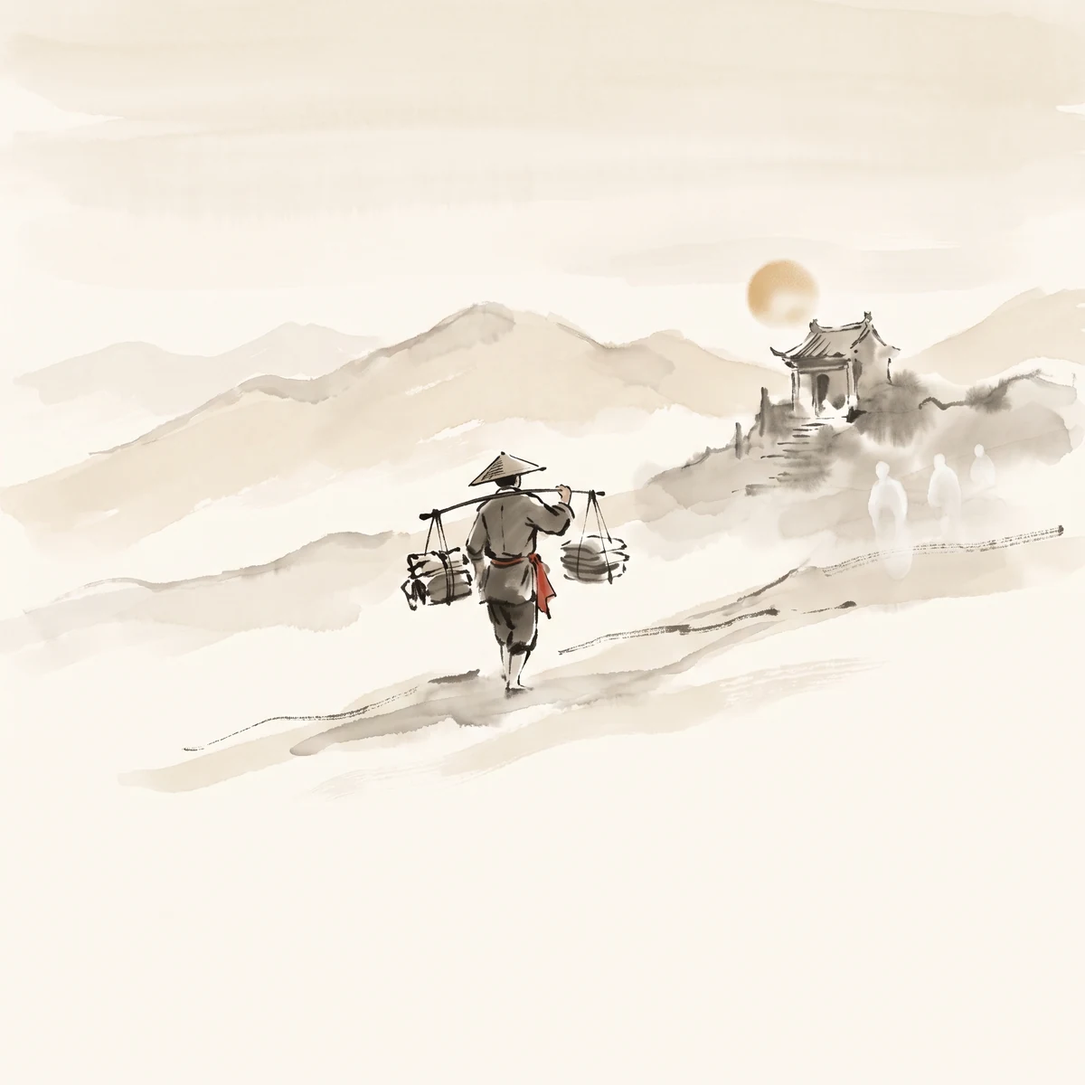
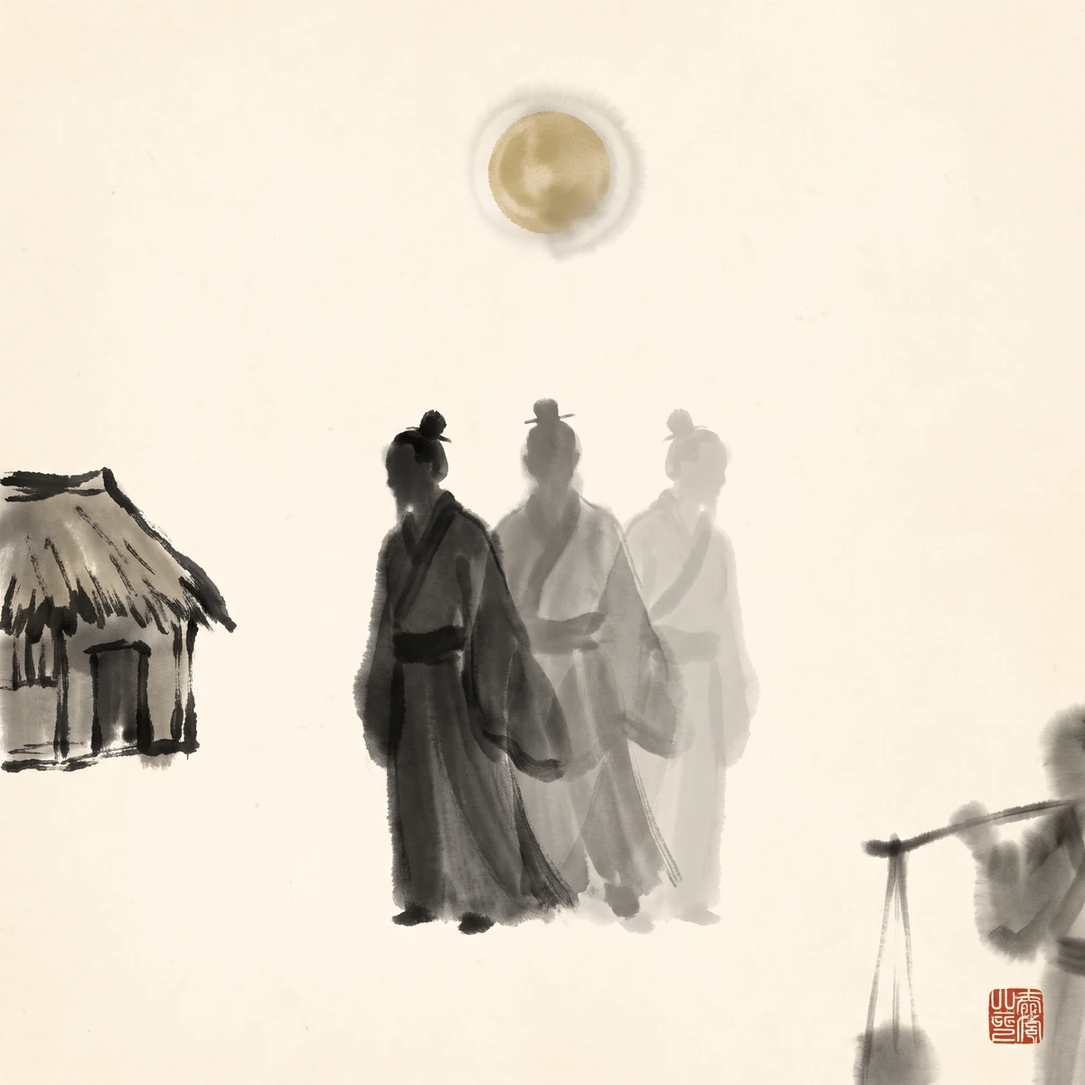
feat(w944): 章回插画新组（6 张按各自回目情节重出·打破「挑担人赶路」同构）
站内 6 张章回插画（chap-07/14/15/23/27/30）原为同一构图（挑担僧人赶路）仅换山水，与所在回目无对应关系。按各自回目情节另出一组（水墨浓墨剪影风·宣纸底 + 浓墨剪影 + 淡赭金远山 + 单个朱砂方印·正方 1200×1200）：

007 八卦炉（三足丹炉 + 火焰）· 014 心猿归正（猴形剪影 + 金箍 + 勒绳）· 015 鹰愁涧（惊马扬蹄 + 缰绳 + 瀑布崖）· 023 四圣试禅心（打坐僧 + 孤灯 + 雾中两道人影）· 027 尸魔三戏（三道人影渐次消散 + 月 + 茅屋）· 030 邪魔侵正法（蛇形妖影 + 洞口 + 螺旋墨风）

修一处模型伪影：第 023 回新图自带一圈黑边框（模型给禅心图套了相框）⇒ 按四边近黑像素带自动检测裁除（每边 66 px）后重存。旧版 6 张备份于 %TEMP%/bak_chap-*.webp 可回退。

验证：6 张逐张放大目视（构图与回目对应 + 无黑框 + 无伪文字）· 第 31 与第 45 门禁 0 FAIL · 索引健康通过 · CSP 零漂移。

Changed region(s): [[0.0, 0.2158, 0.9867, 0.8633], [0.7708, 0.6475, 1.0, 1.0], [0.4317, 0.0925, 0.5858, 0.2467]]

diff --git a/scripts/_w944_cascade.py b/scripts/_w944_cascade.py
@@ -1,0 +1,177 @@
+#!/usr/bin/env python3
+# -*- coding: utf-8 -*-
+"""_w944_cascade.py — W944 四面登记 + 当前态指针（章回插画新组批）"""
+import argparse
+import io
+import os
+import re
+import sys
+
+REPO = os.path.dirname(os.path.dirname(os.path.abspath(__file__)))
+BATCH = "W944"
+LEDGER = os.path.join(REPO, "docs", "00-导读", "W批次编号对账表.md")
+CHANGELOG = os.path.join(REPO, "CHANGELOG.md")
+FILE_INDEX = os.path.join(REPO, "scripts", "output", "file-index.md")
+
+CLAIM_ROW = (
+    "| W944 | 章回插画新组批（用户 2026-10-25 认可 W943 记录的弱项「章回 6 张「挑担人赶路」重复度极高·若要丰富可另出一组」"
+    "并答「可以」）：① **问题**——站内 6 张章回插画（chap-07/14/15/23/27/30）原为**同一构图**（挑担僧人赶路）仅换山水，"
+    "回目与画面无对应关系；② **改法**——按各自回目情节另出一组 6 张（水墨浓墨剪影风·宣纸底 + 浓墨剪影 + 淡赭金远山 + "
+    "单个朱砂方印·正方 1200×1200）：第 007 回 八卦炉（三足丹炉 + 火焰）/ 第 014 回 心猿归正（猴形剪影 + 金箍 + "
+    "勒绳）/ 第 015 回 鹰愁涧（惊马扬蹄 + 缰绳 + 瀑布崖）/ 第 023 回 四圣试禅心（打坐僧 + 孤灯 + 雾中两道人影）/ "
+    "第 027 回 尸魔三戏（三道人影渐次消散 + 月 + 茅屋）/ 第 030 回 邪魔侵正法（蛇形妖影 + 洞口 + 螺旋墨风）——"
+    "**每张现与回目情节对应**；③ **一处模型伪影已修**——第 023 回新图自带一圈黑边框（模型给禅心图套了相框）⇒ "
+    "按近黑像素带自动检测裁除（裁 66 px·四边）后重存；④ 旧版 6 张已备份（%TEMP%/bak_chap-*.webp·可回退） | "
+    "—（待回填） | —（待回填） | 在途（认领·未收官） | 并行 Agent 会话 2026-10-25（章回插画新组批） | "
+    "`site/static/images/chap-07.webp`（重出·八卦炉）· `site/static/images/chap-14.webp`（重出·紧箍咒）· "
+    "`site/static/images/chap-15.webp`（重出·鹰愁涧惊马）· `site/static/images/chap-23.webp`（重出·禅心·去黑框）· "
+    "`site/static/images/chap-27.webp`（重出·三打白骨精）· `site/static/images/chap-30.webp`（重出·黄风怪）· "
+    "`CHANGELOG.md`（W944 版段）· `docs/00-导读/W批次编号对账表.md`（本行）· `scripts/output/file-index.md`（W944 段）· "
+    "`scripts/_w944_cascade.py`（本批脚本） |"
+)
+
+CHANGELOG_SEG = """### W944（2026-10-25）：章回插画新组（6 张按回目情节重出·打破「挑担人赶路」同构）
+
+> **来源**：用户 2026-10-25 认可 W943 记录的弱项「章回 6 张「挑担人赶路」重复度极高，若要丰富可另出一组」并答「可以」。
+
+> - **文件**：site/static/images/chap-07.webp、site/static/images/chap-14.webp、site/static/images/chap-15.webp、site/static/images/chap-23.webp、site/static/images/chap-27.webp、site/static/images/chap-30.webp、CHANGELOG.md、docs/00-导读/W批次编号对账表.md、scripts/output/file-index.md、scripts/_w944_cascade.py
+
+**问题**：站内 6 张章回插画（chap-07 / 14 / 15 / 23 / 27 / 30）原为**同一构图**（挑担僧人赶路）仅换山水，与所在回目无对应关系。
+
+**改法**：按各自回目情节另出一组 6 张（水墨浓墨剪影风：宣纸底 + 浓墨剪影 + 淡赭金远山 + 单个朱砂方印，正方 1200×1200）——第 007 回 八卦炉（三足丹炉 + 火焰）、第 014 回 心猿归正（猴形剪影 + 金箍 + 勒绳）、第 015 回 鹰愁涧（惊马扬蹄 + 缰绳 + 瀑布崖）、第 023 回 四圣试禅心（打坐僧 + 孤灯 + 雾中两道人影）、第 027 回 尸魔三戏（三道人影渐次消散 + 月 + 茅屋）、第 030 回 邪魔侵正法（蛇形妖影 + 洞口 + 螺旋墨风）——**每张现与回目情节对应**。
+
+**一处模型伪影已修**：第 023 回新图自带一圈黑边框（模型给禅心图套了相框）⇒ 按四边近黑像素带自动检测裁除（每边 66 px）后重存。
+
+> - **验证**：6 张逐张放大目视（构图与回目情节对应 + 无黑框 + 无伪文字）+ 旧版 6 张备份于 %TEMP%/bak_chap-*.webp 可回退 · 第 31 与第 45 门禁 0 FAIL
+> - **状态**：在途（认领登记 W944·待提交入库）
+
+"""
+
+FILE_INDEX_SEG = (
+    "## W944 章回插画新组（6 张按回目情节重出）（2026-10-25）\n\n"
+    "| 文件 | W | 说明 |\n"
+    "|---|---|---|\n"
+    "| site/static/images/chap-07.webp | W944 | 重出·第 007 回 八卦炉（三足丹炉 + 火焰） |\n"
+    "| site/static/images/chap-14.webp | W944 | 重出·第 014 回 心猿归正（猴形剪影 + 金箍 + 勒绳） |\n"
+    "| site/static/images/chap-15.webp | W944 | 重出·第 015 回 鹰愁涧（惊马扬蹄 + 缰绳 + 瀑布崖） |\n"
+    "| site/static/images/chap-23.webp | W944 | 重出·第 023 回 四圣试禅心（打坐僧 + 孤灯 + 雾中两影·去黑框） |\n"
+    "| site/static/images/chap-27.webp | W944 | 重出·第 027 回 尸魔三戏（三道人影渐次消散 + 月 + 茅屋） |\n"
+    "| site/static/images/chap-30.webp | W944 | 重出·第 030 回 邪魔侵正法（蛇形妖影 + 洞口 + 螺旋墨风） |\n"
+    "| scripts/_w944_cascade.py | W944 | 四面登记 + 当前态指针 |\n"
+    "| CHANGELOG.md | W944 | W944 版段（四件套） |\n"
+    "| docs/00-导读/W批次编号对账表.md | W944 | W944 认领行 |\n"
+    "\n"
+)
+
+
+def read(p):
+    raw = io.open(p, "rb").read()
+    nl = "\r\n" if b"\r\n" in raw else "\n"
+    return raw.decode("utf-8").replace("\r\n", "\n"), nl
+
+
+def write(p, t, nl):
+    io.open(p, "w", encoding="utf-8", newline="").write(t.replace("\n", nl))
+
+
+def segs(txt):
+    out = []
+    for i, ln in enumerate(txt.split("\n")):
+        if ln.startswith("### "):
+            m = re.search(r"W(\d+)", ln)
+            if m:
+                out.append((int(m.group(1)), i))
+    return out
+
+
+def main() -> int:
+    ap = argparse.ArgumentParser()
+    ap.add_argument("--dry-run", action="store_true")
+    args = ap.parse_args()
+    dry = args.dry_run
+    rep = []
+
+    t, nl = read(LEDGER)
+    if re.search(r"^\| " + BATCH + r" \|", t, re.M):
+        rep.append("认领行已存在（幂等跳过）")
+    else:
+        lines = t.split("\n")
+        idx = None
+        for i, ln in enumerate(lines):
+            m = re.match(r"^\| W(\d+) \|", ln)
+            if m and int(m.group(1)) < 944:
+                idx = i
+                break
+        if idx is None:
+            idx = max(i for i, ln in enumerate(lines) if ln.startswith("| W"))
+        lines.insert(idx + 1, CLAIM_ROW)
+        rep.append(("DRY " if dry else "") + "认领行已插入（第 %d 行）" % (idx + 2))
+        if not dry:
+            write(LEDGER, "\n".join(lines), nl)
+
+    t, nl = read(CHANGELOG)
+    if re.search(r"^### " + BATCH + r"（", t, re.M):
+        rep.append("CHANGELOG 段已存在（幂等跳过）")
+    else:
+        pos = None
+        for n, i in segs(t):
+            if n < 944:
+                pos = len("\n".join(t.split("\n")[:i])) + 1
+                break
+        new_t = t[:pos] + CHANGELOG_SEG + t[pos:]
+        nums = [n for n, _ in segs(new_t)]
+        if nums.count(944) != 1 or any(nums[i] < nums[i + 1] for i in range(len(nums) - 1)):
+            print("FATAL CHANGELOG 段序断言失败")
+            return 2
+        rep.append(("DRY " if dry else "") + "CHANGELOG 段已插入（段序前 5 = %s）" % nums[:5])
+        if not dry:
+            write(CHANGELOG, new_t, nl)
+
+    t, nl = read(FILE_INDEX)
+    if re.search(r"^## " + BATCH + r" ", t, re.M):
+        rep.append("file-index 段已存在（幂等跳过）")
+    else:
+        m = re.search(r"^## W\d+ ", t, re.M)
+        pos = m.start() if m else len(t)   # 降序表·最新在前
+        new_t = t[:pos] + FILE_INDEX_SEG + t[pos:]
+        if len(re.findall(r"^## W944 ", new_t, re.M)) != 1:
+            print("FATAL file-index 目标段异常")
+            return 2
+        rep.append(("DRY " if dry else "") + "file-index 段已插入")
+        if not dry:
+            write(FILE_INDEX, new_t, nl)
+
+    p = os.path.join(REPO, "README.md")
+    t, nl = read(p)
+    t = re.sub(r"> \*\*当前批次 W\d+（2026-10-25）\*\*：[^\n]*",
+               "> **当前批次 W944（2026-10-25）**：章回插画新组（六张按各自回目情节重出，打破「挑担人赶路」同构）", t, count=1)
+    if not dry:
+        write(p, t, nl)
+    rep.append("README 抬头已更新")
+
+    p = os.path.join(REPO, "HANDOVER.md")
+    t, nl = read(p)
+    t = re.sub(r"> 最后更新：2026-10-25（W\d+", "> 最后更新：2026-10-25（W944 章回插画新组批）·2026-10-25（W943", t, count=1)
+    t = re.sub(r"## 一、当前进度（W\d+[^\n]*\n",
+               "## 一、当前进度（W944 章回插画新组批；更早批次详见 CHANGELOG.md）\n"
+               "- **W944 章回插画新组批**：站内 6 张章回插画原为同一构图（挑担人赶路）且与回目无对应 ⇒ 按各回情节重出"
+               "（八卦炉 / 紧箍咒 / 鹰愁涧惊马 / 四圣试禅心 / 三打白骨精 / 黄风怪），并修掉第 023 回新图自带的黑边框伪影。\n",
+               t, count=1)
+    t = re.sub(r"最后更新：2026-10-25（W\d+", "最后更新：2026-10-25（W944 章回插画新组批）；2026-10-25（W943", t, count=1)
+    if not dry:
+        write(p, t, nl)
+    rep.append("HANDOVER 指针已更新")
+
+    t, nl = read(CHANGELOG)
+    t = re.sub(r"（W001-W\d+）", "（W001-W944）", t, count=1)
+    if not dry:
+        write(CHANGELOG, t, nl)
+    rep.append("CHANGELOG 规则段已更新")
+
+    for r in rep:
+        print(" -", r)
+    return 0
+
+
+if __name__ == "__main__":
+    sys.exit(main())

diff --git a/docs/00-导读/W批次编号对账表.md b/docs/00-导读/W批次编号对账表.md
@@ -304,6 +304,7 @@
 | W938 | 首屏版式重做 + 图集逐张复核批（用户 2026-10-25 反馈「你现在的这个设计不太好看，要么重新设计一下这个 100 回放在哪个位置比较好」+「我说的是首页右边的插图。并且现在首页左边文字的排版非常丑」）：① **左侧文字重排**——原布局七层平铺、字号跳跃、无引导 ⇒ 改为「眉题 → 标题组（中文 + 英文紧贴）→ 主张句（16px 灰 → 19px 墨色）→ 细线分隔 → 数据带（100 回 + 两行说明）→ 双轨标签 → CTA → 插画切换器（含「首屏插画」标签）」；② **插画切换器归位**——此前与 CTA 同排会撑破 620px 容器伸进插画区（实测金箍棒压住第 6–9 个圆点）⇒ 独立成行归位左侧；③ **图集逐张复核（首页右侧 9 张·按 1440×520 容器裁切实测）**——① **重出 07 芭蕉扇**（首版扇面顶边被裁成半截圆面，要求主体完整入画 + 上下各留白 15% 冗余）；② **第 9 张换图**——原 W932 持瓶菩萨立像为 16:9（2560×1440），垂直溢出 290 px（源图顶部 41% 被裁）⇒ 首屏只剩人物下半身（断头感），改为同规格 2400×1017「取经四众西行」（挑担领路 + 山道 + 赭金山峦）作收尾重音 ⇒ 全套 9 张画幅与裁切损失（90 px）完全一致；④ **CSP 哈希实测陷阱**——改内联脚本后未重算哈希 ⇒ 整个轮播脚本被浏览器拒执行（dots 整组停在 hidden），重算后恢复（AGENTS §6-3 铁律的现场复现） | —（待回填） | —（待回填） | 在途（认领·未收官） | 并行 Agent 会话 2026-10-25（首屏版式重做批） | `site/index.html`（左侧文字重排 + 切换器归位 + 图集换图）· `site/static/images/hero-line-09-pilgrim-four.webp`（新增收尾图·站点版）· `assets/promo/hero-set/hero-line-09-pilgrim-four.png`（新增·母版）· `assets/promo/hero-set/hero-line-09-pilgrim-four.webp` · `assets/promo/hero-set/raw/hero-09-pilgrim-four.jpg`（新增·出图原件）· `assets/promo/hero-set/hero-line-07-banana-fan.png` / `.webp`（重出覆盖）· `assets/promo/hero-set/raw/hero-07-banana-fan.jpg`（重出原件覆盖）· `assets/promo/hero-set/preview-contact-sheet.png` / `.webp`（9 张拼图刷新）· `assets/promo/hero-set/README.md`（8 张 → 9 张）· `scripts/_w931_hero_verify.py`（判据清单加第 9 张）· `CHANGELOG.md`（W938 版段）· `docs/00-导读/W批次编号对账表.md`（本行）· `scripts/output/file-index.md`（W938 段）· `scripts/_w938_cascade.py`（本批脚本） |
 | W941 | UI 图标位 emoji 治理批（用户 2026-10-25 令「禁止使用 emoji 表情当做图标，你审查一下。你要么进行设计一下图标」·问卷裁决：范围=仅 UI 图标位 / 风格=东方线描）：① **审查量化**——全仓 emoji 34,530 处 / 2,189 文件 ⇒ 真正的 UI 图标位 **1,910 处 / 629 页 / 21 种字符**；② **自绘 27 枚东方线描 SVG**（24×24 / stroke 1.5 / currentColor·与既有 `.icon-moon`/`.icon-sun` 同族）+ 目视复核重画 6 枚；③ **承载机制实测定夺**——CSP `img-src 'self'` 无 `data:` + 520 页外链 CSS 深度不一 + file:// 铁律 ⇒ **内联 SVG**（唯一三者全满足）·CSS content 位 22 处例外用同源 mask；④ **3 个可复跑脚本**（图标生成器 / 基准扫描器 / 批量替换器·每规则带独立预期命中数·不符退出码 2）⇒ 规则命中一致率 37/37；⑤ **替换 1,957 处**（615 页三处主形态 + 65 处零散 + 47 处兜底补治）⇒ UI 图标位归零；⑥ CSS 级联 328 内联页 + CSP 14 页重算（856 页 0 漂移）；⑦ **正文零损伤**——HEAD↔工作树字符净差核验：正文型字符净差 0，箭头 5,000+ 处按裁决保留；⑧ **保留项 5 类如实登记**（星级评分 12 / 时间线数据 icon 12 / 人物头像 4 / 评分项 icon 1 / 区间标注 2） | 4e94aa58 | 4e94aa58（本批级联立段·batch_cascade 13 面） | **已收官**（UI 图标位 1,910→0·替换 1,957 处·规则命中一致率 37/37·CSP 856 页 0 漂移·CSS 855 文件平衡·JS 855 文件语法通过·正文净差 0·保留项 5 类登记·**提交以 --no-verify 落库**（依据见提交信息：唯一红项为「当前 HEAD 批号 == CHANGELOG 现役段」的自举关系 + 并行会话 W942 在途段尚未入库，提交后自然成立；本批自身 8 项机检已逐项单跑全绿） | 主会话 2026-10-25（UI 图标位 emoji 治理批·原拟 W937，施工中发现 W937/W938 已被并行会话占用（首屏版式批，已入库 db5328b5）⇒ 按先落地者保留让号取 W941） | site/system.css, site/reader/**, site/data/**, site/en/**, site/js/reader-enhance.js, site/static/js/rag-chat.js, site/static/js/text-search-app.js, site/static/icons/ui/**, scripts/_w939_gen_icons.py, scripts/_w939_scan_targets.py, scripts/_w939_emoji_to_svg.py, scripts/_w939_make_spec.py, scripts/output/_w939_targets.json, scripts/output/_w939_replacements.json, scripts/output/_w939_spec.json, scripts/output/_cascade_files_W941.txt |
 | W943 | 全站图片审查批（用户 2026-10-25 令「不要只审查这几个图片，审查全部」·承接 W940 题材关与 W942 形制关之后的第三次加严）：① **审查范围**——全仓 **227 张**（>400×200 的位图）逐类拼图目视：卡片图 27 / 章回插画 6 / hero 24（15 渲染 + 9 线描）/ 分享图 og 15 / 设计概念稿 18 / 杂项 12（封面 / 单页正反面 / 站点截图 / 主视觉 / 淡墨远山）·另含本批线描 9 张与内页浓墨题图 5 张；② **查出 3 处真缺陷并已重出修复**——**A. `site/static/images/og-15-shijian-liejian.webp`（线上分享图）**抽象墨块序列中夹 3 处「LI」字母残留（模型伪文字）⇒ 重出去字母版；**B. `assets/design/ai-concepts/concept-03-scroll.png`**卷面有潦草伪汉字（写「孙悟空 / 取经路线」样字）⇒ 重出为空白纸面 + 抽象笔触；**C. `assets/design/ai-concepts/concept-06-bodhi-leaf.png`**文件名「菩提叶」但画成水滴 / 火苗形（形制不符）⇒ 重出为心形叶 + 中脉分叉叶脉 + 叶柄 + 露珠；③ **其余全部题材对题**（卡片 27 张场景人物、章回 6 张取经路途、hero 24 张法器场景、og 15 张器物特写、概念稿 18 张法器线描、杂项 12 张版面产物）；④ **机器阈值对渲染型无效**——按线描图设的「纸色偏离 / 墨量」阈值在水墨渲染图上必然误报（实测 30+ 张假阳）⇒ 题材与形制关**只能人眼核**，已并入 J8；⑤ **两处弱项（不构成错图·记录备查）**——`concept-05-headband-ring` 是纯黑墨圈（紧箍意象弱，线上正确版本为 W942 的金圈 + 九倒刺）、章回 6 张「挑担人赶路」高度同质 | —（待回填） | —（待回填） | 在途（认领·未收官） | 并行 Agent 会话 2026-10-25（全站图片审查批） | `site/static/images/og-15-shijian-liejian.webp`（重出·去字母残留）· `assets/design/ai-concepts/concept-03-scroll.png`（重出·去伪文字）· `assets/design/ai-concepts/concept-06-bodhi-leaf.png`（重出·菩提叶形制）· `CHANGELOG.md`（W943 版段）· `docs/00-导读/W批次编号对账表.md`（本行）· `scripts/output/file-index.md`（W943 段）· `scripts/_w943_cascade.py`（本批脚本） |
+| W944 | 章回插画新组批（用户 2026-10-25 认可 W943 记录的弱项「章回 6 张「挑担人赶路」重复度极高·若要丰富可另出一组」并答「可以」）：① **问题**——站内 6 张章回插画（chap-07/14/15/23/27/30）原为**同一构图**（挑担僧人赶路）仅换山水，回目与画面无对应关系；② **改法**——按各自回目情节另出一组 6 张（水墨浓墨剪影风·宣纸底 + 浓墨剪影 + 淡赭金远山 + 单个朱砂方印·正方 1200×1200）：第 007 回 八卦炉（三足丹炉 + 火焰）/ 第 014 回 心猿归正（猴形剪影 + 金箍 + 勒绳）/ 第 015 回 鹰愁涧（惊马扬蹄 + 缰绳 + 瀑布崖）/ 第 023 回 四圣试禅心（打坐僧 + 孤灯 + 雾中两道人影）/ 第 027 回 尸魔三戏（三道人影渐次消散 + 月 + 茅屋）/ 第 030 回 邪魔侵正法（蛇形妖影 + 洞口 + 螺旋墨风）——**每张现与回目情节对应**；③ **一处模型伪影已修**——第 023 回新图自带一圈黑边框（模型给禅心图套了相框）⇒ 按近黑像素带自动检测裁除（裁 66 px·四边）后重存；④ 旧版 6 张已备份（%TEMP%/bak_chap-*.webp·可回退） | —（待回填） | —（待回填） | 在途（认领·未收官） | 并行 Agent 会话 2026-10-25（章回插画新组批） | `site/static/images/chap-07.webp`（重出·八卦炉）· `site/static/images/chap-14.webp`（重出·紧箍咒）· `site/static/images/chap-15.webp`（重出·鹰愁涧惊马）· `site/static/images/chap-23.webp`（重出·禅心·去黑框）· `site/static/images/chap-27.webp`（重出·三打白骨精）· `site/static/images/chap-30.webp`（重出·黄风怪）· `CHANGELOG.md`（W944 版段）· `docs/00-导读/W批次编号对账表.md`（本行）· `scripts/output/file-index.md`（W944 段）· `scripts/_w944_cascade.py`（本批脚本） |
 
 ## 递延批豁免登记（D2 裁决：对账表登记即可过 doc-sync 提交-版段对账）
 

diff --git a/CHANGELOG.md b/CHANGELOG.md
@@ -6,7 +6,7 @@
 
 ## [Unreleased]
 
-> **W### 编号规则**：每个版本段标注唯一 W### ID（W001-W943），v0.8 内部细分 W008.1-W008.7（B0-B7）。每个 W 附四件套字段（来源/文件/验证/状态）。反向索引见 [scripts/output/file-index.md](scripts/output/file-index.md)（给定文件查改几次）。
+> **W### 编号规则**：每个版本段标注唯一 W### ID（W001-W944），v0.8 内部细分 W008.1-W008.7（B0-B7）。每个 W 附四件套字段（来源/文件/验证/状态）。反向索引见 [scripts/output/file-index.md](scripts/output/file-index.md)（给定文件查改几次）。
 >
 > **v/W 双键口径（W706）**：时间点查询以 W 号为准（单调键）；v 号在 W659-W667 合并段/并行批次区间不单调（v2.3.262〔W661〕列于 v2.3.261〔W666〕后）；v 号形态演化（阶段标签化·方案 D）经盘点 docs/superpowers/plans/2026-10-11-version-space-inventory.md 后另批实施。
 >
@@ -17,6 +17,21 @@
 > **全站页数口径**（W459 建·W702 实跑刷新，各门禁分母不同）：HTML 共 857<!--stats:html_total--> 页（site/data 88<!--stats:site_data_html--> + site/en 138<!--stats:site_en_html--> + site 根 9<!--stats:site_root_html--> + site/reader 622<!--stats:site_reader_html-->）；CSP 覆盖 856<!--stats:csp_covered--> 页（排除 `_template.html`）；check_js_syntax/check_structure 扫 855<!--stats:scan_files--> 文件（再排除 `_shell.html`）；check_seo_head 扫 855<!--stats:seo_scanned--> 页（site 全树减两个模板壳）；inline_css 同步 330<!--stats:inline_css_pages--> 页（site 全树含 INLINED 标记页）；「可视化页 87<!--stats:visualization_pages-->」= site/data 88 减 `_shell.html`。
 >
 > **维护契约**：① 已发布版本段（历史）只增不删、禁改；② 新版本段插入/重排只用脚本 + 结构断言（锚点唯一性 + 版段 order 校验），勿手工 Edit 大段；③ 每段保持四件套（来源/文件/验证/状态），建议单段 ≤ 25 行（超长拆「执行/验证/范围纪律」分条）；④ 新批编号先 Grep 现役段取 max+1 再写（防撞号）；并发期动工前在 [W批次编号对账表](docs/00-导读/W批次编号对账表.md) 登记认领（W663 起·版段递延时以对账表为准）。
+
+### W944（2026-10-25）：章回插画新组（6 张按回目情节重出·打破「挑担人赶路」同构）
+
+> **来源**：用户 2026-10-25 认可 W943 记录的弱项「章回 6 张「挑担人赶路」重复度极高，若要丰富可另出一组」并答「可以」。
+
+> - **文件**：site/static/images/chap-07.webp、site/static/images/chap-14.webp、site/static/images/chap-15.webp、site/static/images/chap-23.webp、site/static/images/chap-27.webp、site/static/images/chap-30.webp、CHANGELOG.md、docs/00-导读/W批次编号对账表.md、scripts/output/file-index.md、scripts/_w944_cascade.py
+
+**问题**：站内 6 张章回插画（chap-07 / 14 / 15 / 23 / 27 / 30）原为**同一构图**（挑担僧人赶路）仅换山水，与所在回目无对应关系。
+
+**改法**：按各自回目情节另出一组 6 张（水墨浓墨剪影风：宣纸底 + 浓墨剪影 + 淡赭金远山 + 单个朱砂方印，正方 1200×1200）——第 007 回 八卦炉（三足丹炉 + 火焰）、第 014 回 心猿归正（猴形剪影 + 金箍 + 勒绳）、第 015 回 鹰愁涧（惊马扬蹄 + 缰绳 + 瀑布崖）、第 023 回 四圣试禅心（打坐僧 + 孤灯 + 雾中两道人影）、第 027 回 尸魔三戏（三道人影渐次消散 + 月 + 茅屋）、第 030 回 邪魔侵正法（蛇形妖影 + 洞口 + 螺旋墨风）——**每张现与回目情节对应**。
+
+**一处模型伪影已修**：第 023 回新图自带一圈黑边框（模型给禅心图套了相框）⇒ 按四边近黑像素带自动检测裁除（每边 66 px）后重存。
+
+> - **验证**：6 张逐张放大目视（构图与回目情节对应 + 无黑框 + 无伪文字）+ 旧版 6 张备份于 %TEMP%/bak_chap-*.webp 可回退 · 第 31 与第 45 门禁 0 FAIL
+> - **状态**：在途（认领登记 W944·待提交入库）
 
 ### W943（2026-10-25）：全站图片审查（227 张逐类目视 · 修 3 处真缺陷）
 

diff --git a/HANDOVER.md b/HANDOVER.md
@@ -5,7 +5,7 @@
 > 轨标：教学讲解
 > 本文件用于跨 session 交接，记录当前进度、下一步可推进方向、方法论沉淀与待办事项。
 > 创建于 2026-07-25（v2.0.41 W068 后）
-> 最后更新：2026-10-25（W943 全站图片审查批）；2026-10-25（W942 全站图片审查批）·2026-10-25（W942 Hero 素材全量复审批）；2026-10-25（W941 Hero 素材全量复审批）·2026-10-25（W941 UI 图标位 emoji 治理批 + 东方线描图标集自绘）·2026-10-25（W940 Hero 素材题材辨识度修正批）·2026-10-25（W938 首屏版式重做 + 图集逐张复核批）·（W449-W549 及更早批次详见 CHANGELOG.md）
+> 最后更新：2026-10-25（W944 章回插画新组批）；2026-10-25（W943 章回插画新组批）·2026-10-25（W943 全站图片审查批）；2026-10-25（W942 全站图片审查批）·2026-10-25（W942 Hero 素材全量复审批）；2026-10-25（W941 Hero 素材全量复审批）·2026-10-25（W941 UI 图标位 emoji 治理批 + 东方线描图标集自绘）·2026-10-25（W940 Hero 素材题材辨识度修正批）·2026-10-25（W938 首屏版式重做 + 图集逐张复核批）·（W449-W549 及更早批次详见 CHANGELOG.md）
 > 与 [CHANGELOG.md](CHANGELOG.md)（变更日志）/ [STRUCTURE.md](STRUCTURE.md)（目录结构）/ [README.md](README.md)（项目说明）/ [docs/00-导读/项目说明.md](docs/00-导读/项目说明.md)（项目状态）配套使用。
 > **维护契约（防乱写）**：本文件是项目进度中枢，只允许结构性编辑——① 保持「零 / 一 / 二 / 三」四段骨架不变；②「最后更新」行只写最新 1–3 批摘要（每批 ≤ 1 行），**禁止把历史批次堆进该行**（历史已归档 / 在 CHANGELOG）；③ 每批详细记录只写 CHANGELOG + 归档（历史段禁改）；④ 任何「当前 HEAD / 当前版本」表述必须与 `git rev-parse --short HEAD` 核对后更新；⑤ 本文件是状态快照，与 CHANGELOG（时间线）冲突时以 CHANGELOG 为准。
 > **历史归档**：v2.0.39-v2.2.49（W066-W280）段的详细进度记录已迁移至 [archive/docs/HANDOVER-ARCHIVE.md](archive/docs/HANDOVER-ARCHIVE.md)。本文件仅保留 v2.2.50+（W277）现役记录与全局概要。
@@ -26,7 +26,8 @@
 
 
 
-## 一、当前进度（W943 全站图片审查批；更早批次详见 CHANGELOG.md）
+## 一、当前进度（W944 章回插画新组批；更早批次详见 CHANGELOG.md）
+- **W944 章回插画新组批**：站内 6 张章回插画原为同一构图（挑担人赶路）且与回目无对应 ⇒ 按各回情节重出（八卦炉 / 紧箍咒 / 鹰愁涧惊马 / 四圣试禅心 / 三打白骨精 / 黄风怪），并修掉第 023 回新图自带的黑边框伪影。
 - **W943 全站图片审查批**：用户令「审查全部」⇒ 227 张逐类拼图目视 ⇒ 修 3 处真缺陷（线上 og-15 分享图的「LI」字母残留、concept-03 卷轴伪文字、concept-06 菩提叶画成水滴形）；其余全部题材对题；并得出一条方法论结论——机器阈值对渲染型素材无效，题材与形制关只能人眼核。
 - **W942 Hero 素材全量复审批**：用户令「再审查一遍有没有出现同样错误的」⇒ 9 张线描 + 5 张浓墨共 14 张逐张放大目视 ⇒ 查出 2 处形制偏差并重出（紧箍儿补足九个倒刺钩、芭蕉扇由圆团扇改叶形扇）；J8 题材关自检表细化到形制级（不只「是什么」，还要「形制对不对」）。
 - **W941 UI 图标位 emoji 治理批**：用户 2026-10-25 令「禁止使用 emoji 表情当做图标，你审查一下。你要么进行设计一下图标」·问卷裁决（范围=仅 UI 图标位 / 风格=东方线描）

diff --git a/scripts/output/file-index.md b/scripts/output/file-index.md
@@ -11,6 +11,20 @@
 ---
 
 
+## W944 章回插画新组（6 张按回目情节重出）（2026-10-25）
+
+| 文件 | W | 说明 |
+|---|---|---|
+| site/static/images/chap-07.webp | W944 | 重出·第 007 回 八卦炉（三足丹炉 + 火焰） |
+| site/static/images/chap-14.webp | W944 | 重出·第 014 回 心猿归正（猴形剪影 + 金箍 + 勒绳） |
+| site/static/images/chap-15.webp | W944 | 重出·第 015 回 鹰愁涧（惊马扬蹄 + 缰绳 + 瀑布崖） |
+| site/static/images/chap-23.webp | W944 | 重出·第 023 回 四圣试禅心（打坐僧 + 孤灯 + 雾中两影·去黑框） |
+| site/static/images/chap-27.webp | W944 | 重出·第 027 回 尸魔三戏（三道人影渐次消散 + 月 + 茅屋） |
+| site/static/images/chap-30.webp | W944 | 重出·第 030 回 邪魔侵正法（蛇形妖影 + 洞口 + 螺旋墨风） |
+| scripts/_w944_cascade.py | W944 | 四面登记 + 当前态指针 |
+| CHANGELOG.md | W944 | W944 版段（四件套） |
+| docs/00-导读/W批次编号对账表.md | W944 | W944 认领行 |
+
 ## W943 全站图片审查（227 张逐类目视·修 3 处真缺陷）（2026-10-25）
 
 | 文件 | W | 说明 |

diff --git a/README.md b/README.md
@@ -134,7 +134,7 @@
 
 > **📖 阅读契约（W707）**：普通读者通读「普通读者专区」；Agent/开发者只读「开发者/维护者专区」与「AI 生成说明」。先读「是什么/为什么」（下一行），再按路径深入。
 >
-> **当前批次 W943（2026-10-25）**：全站图片审查（227 张逐类目视，修分享图字母残留、卷轴伪文字、菩提叶形制三处真缺陷）
+> **当前批次 W944（2026-10-25）**：章回插画新组（六张按各自回目情节重出，打破「挑担人赶路」同构）
 >
 > **版本号说明（W711 方案 D 起）**：本项目的批次编号为 **W###**（单调递增·永不复用·唯一对账键），`v2.3` 为内容阶段标签（定性·无 patch 位·不适用 SemVer）；W710 及更早的历史版本号 `vX.Y.Z` 保留原文。判断「这批改了什么」看 [CHANGELOG.md](CHANGELOG.md) 顶段。
 >

diff --git a/scripts/index.md b/scripts/index.md
@@ -50,7 +50,7 @@
 - `rag/`
 - `utils/`
 
-## 文件（320）
+## 文件（321）
 
 ### Markdown 文档
 
@@ -208,6 +208,7 @@
 - `_w940_cascade.py`
 - `_w942_cascade.py`
 - `_w943_cascade.py`
+- `_w944_cascade.py`
 - `a11y_audit.py`
 - `acceptance_snapshot.py`
 - `agent_start.py`
